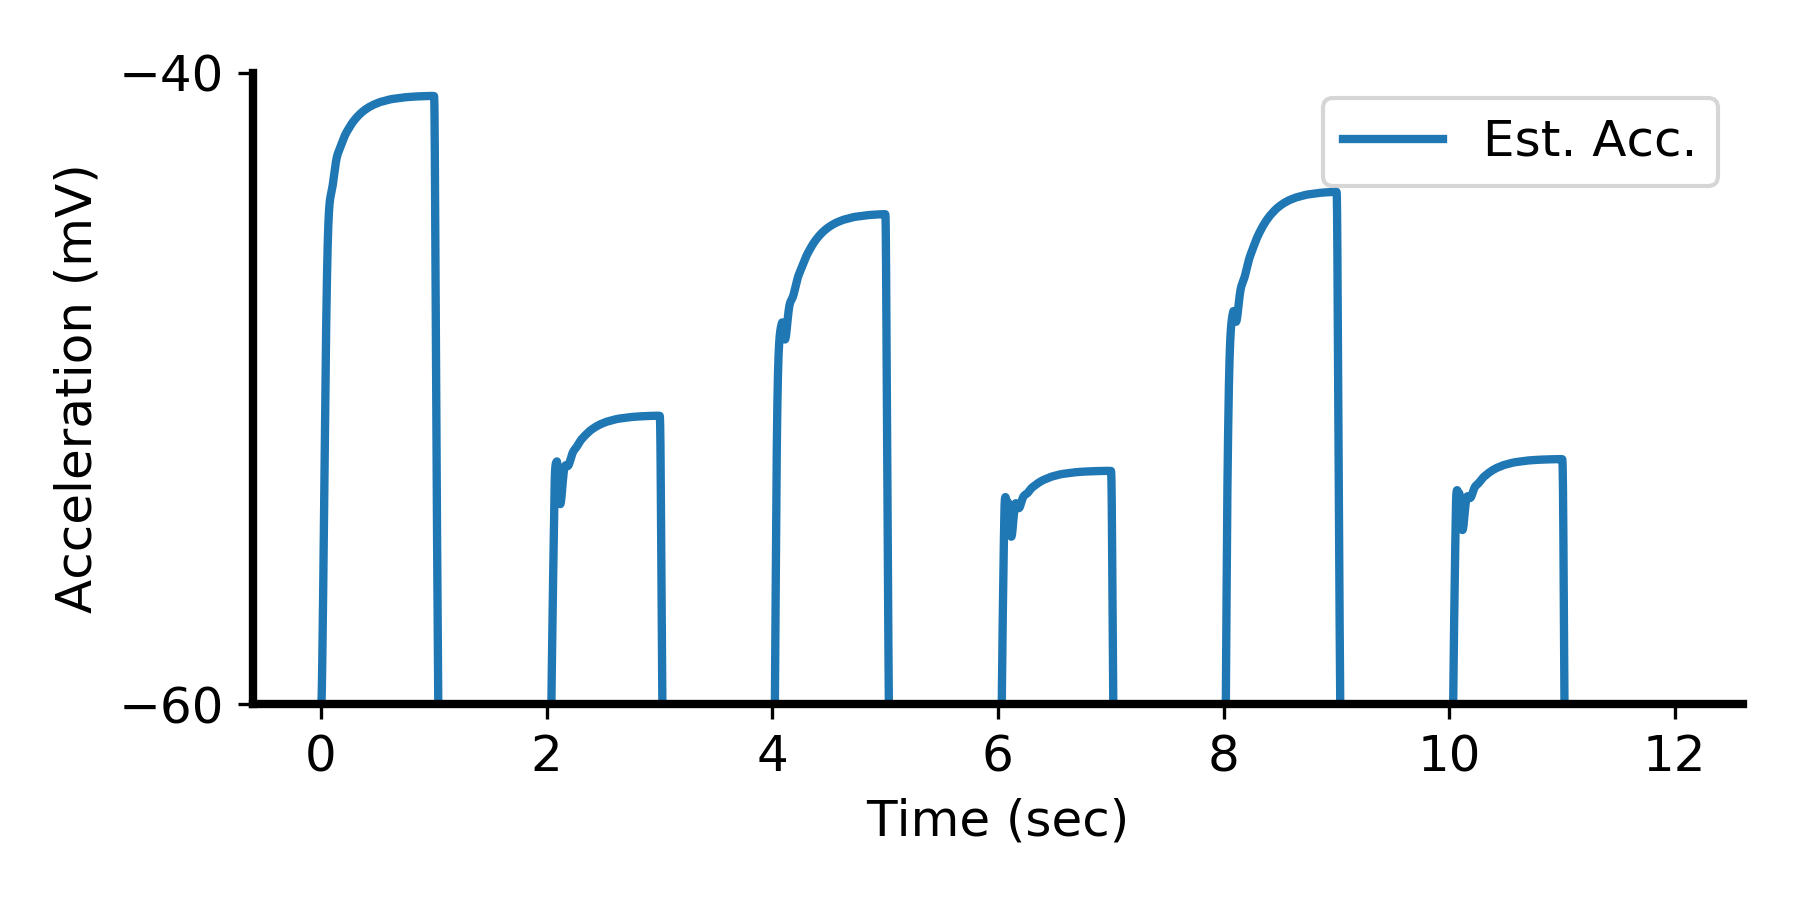
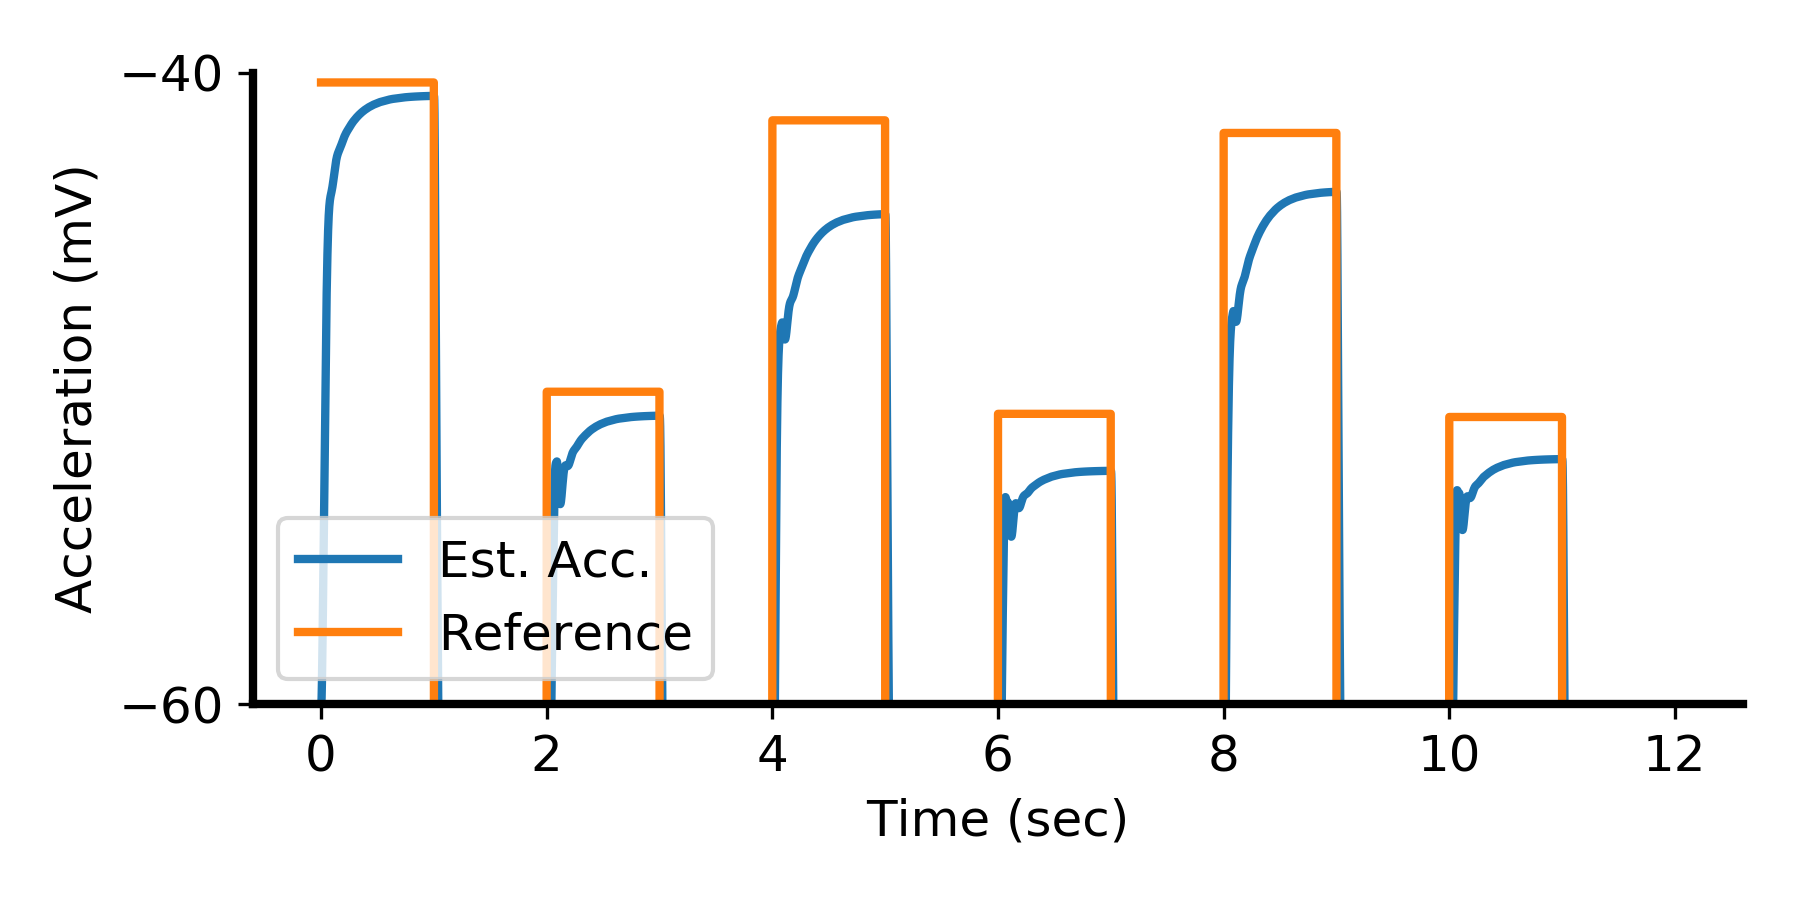
Plot Accels with Ref

diff --git a/writeup/scripts/plot_accel.py b/writeup/scripts/plot_accel.py
@@ -15,10 +15,30 @@ pos_net = data[:, 5]
 neg_net = data[:, 6]
 
 # TODO(buckbaskin): define reference accelerations for positive, negative
+# 5000 steps per second
+pos_ref = np.zeros(pos_net.shape)
+pos_ref[5000:10000] = 19.7
+pos_ref[15000:20000] = 9.9
+pos_ref[25000:30000] = 18.5
+pos_ref[35000:40000] = 9.2
+pos_ref[45000:50000] = 18.1
+pos_ref[55000:60000] = 9.1
+
+pos_ref += -60
+
+neg_ref = np.zeros(neg_net.shape)
+neg_ref[10000:15000] = 19.7
+neg_ref[20000:25000] = 9.9
+neg_ref[30000:35000] = 18.5
+neg_ref[40000:45000] = 9.2
+neg_ref[50000:55000] = 18.1
+neg_ref[60000:65000] = 9.1
+
+neg_ref += -60
 
 setup = [
-('Pos', [pos_net,]),
-('Neg', [neg_net,]),
+('Pos', [pos_net, pos_ref]),
+('Neg', [neg_net, neg_ref]),
 ]
 
 linewidth = 2
@@ -27,10 +47,10 @@ for name, datasets in setup:
     fig = plt.figure(figsize=(6,3,), dpi=300)
     ax = fig.add_subplot('111')
 
-    vel, = datasets
+    vel, ref = datasets
     # print(len(time))
-    ax.plot(time[200:], vel[200:], linewidth=linewidth, label='Est. Acc.')
-    # ax.plot(time[20000:40000], ref[20000:40000], linewidth=linewidth, label='Reference')
+    ax.plot(time[5000:], vel[5000:], linewidth=linewidth, label='Est. Acc.')
+    ax.plot(time[5000:], ref[5000:], linewidth=linewidth, label='Reference')
     
     ax.set_xlabel('Time (sec)')
     ax.set_ylabel('Acceleration (mV)')
